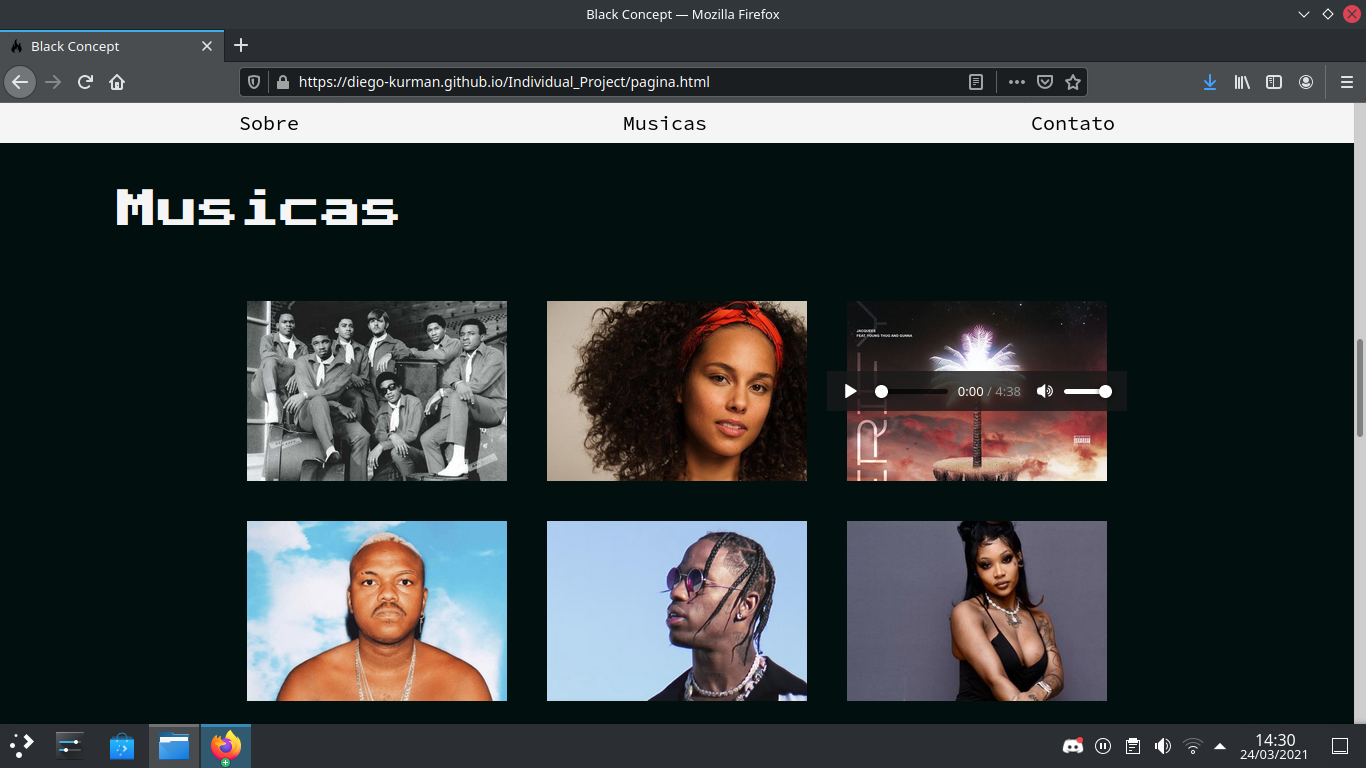
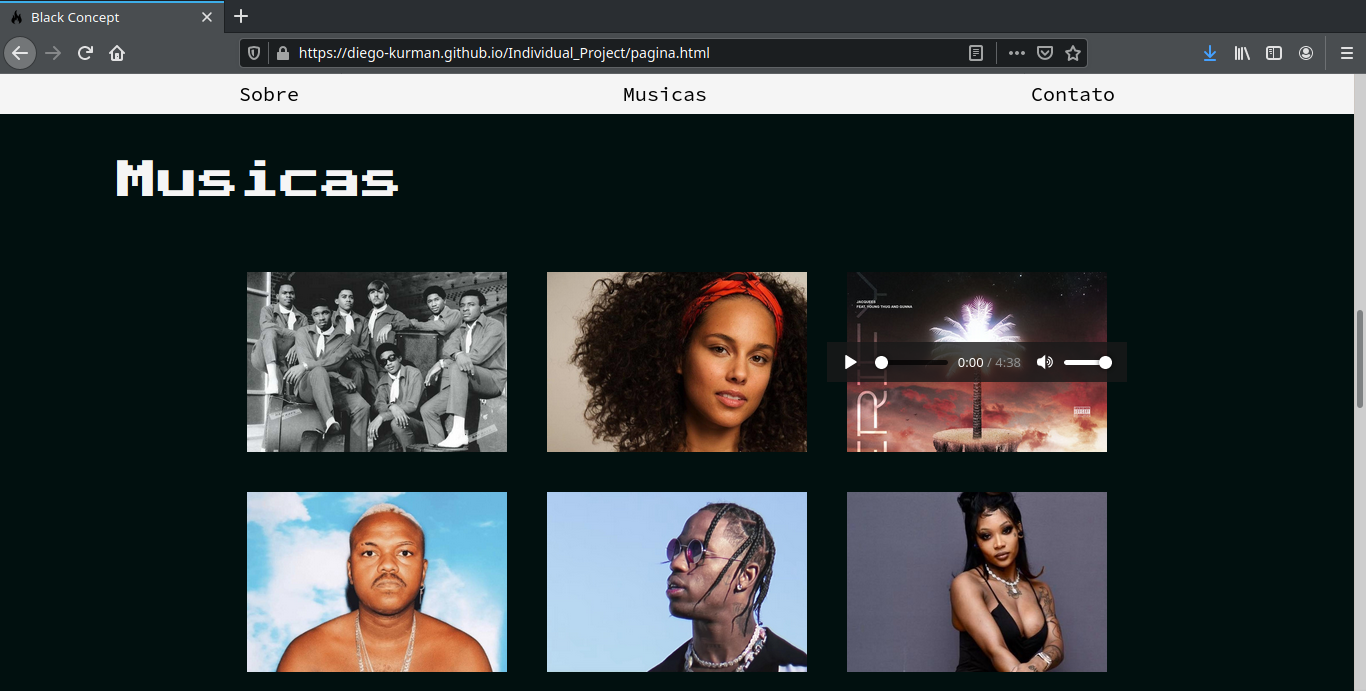
croping picture

diff --git a/src/css/projects.css b/src/css/projects.css
@@ -131,7 +131,7 @@
 .project .container-Black {
   position: relative;
   width: 550px;
-  height: 317px;
+  height: 285px;
   opacity: 0.8;
   transform: rotate(-30deg) skew(25deg) scale(.7);
   transition: 0.5s;
